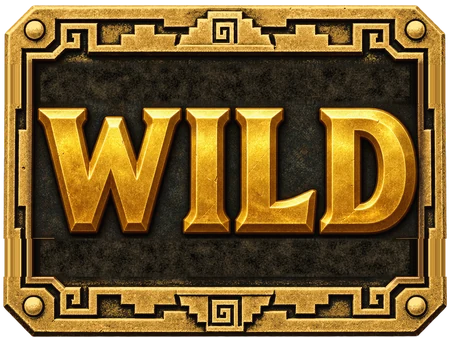
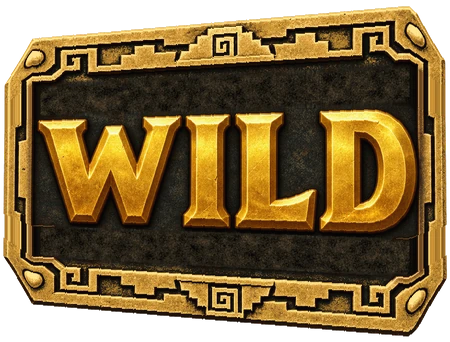
Centre gems in pockets and shape WILD plaque like a gem
Pocket centres sit 1.06 deg off the image axes, so gems are rotated by that
offset, set on radius 391 and reduced to 110 px. WILD plaque is warped into
the gem trapezoid and masked with the gem silhouette; the flipped variant for
the right wheel keeps the narrow side toward the centre.

diff --git a/assets/wheel-v2/game-published/index.html b/assets/wheel-v2/game-published/index.html
@@ -1,4 +1,4 @@
-<!doctype html><html lang="en"><head><meta charset="utf-8"/><link rel="icon" href="./favicon.png"/><meta name="viewport" content="width=device-width,initial-scale=1"/><meta name="description" content="Web site created using create-react-app"/><title>Double Wheel</title><script src="./replay.js"></script><script defer="defer" src="./static/js/main.d348ebcc.js"></script><link href="./static/css/main.be085d95.css" rel="stylesheet"><style>.background_video{display:none!important}.wheel_stonesCon canvas,.wheel_stonesCon2 canvas{opacity:0!important}.wheel-container{scale:1.058;translate:138px -1px}.wheel-container2{scale:1.058;translate:205px 1px}.con-amazonPrincess{translate:-50px 0}.arrow-container{margin-left:170px}.App{background:#0b140d url(./static/media/background.c09b372e03a655d69d97.webp) center/cover no-repeat!important}.con-amazonPrincess{width:850px!important;height:850px!important}.con-amazonPrincess>div{transform:scale(2.8333);transform-origin:0 0}.CrashVisualization,.CrashHistoryBar,.topTableCounter_container,.PlayerList,.App>section{opacity:0!important;pointer-events:none!important}</style><style>.stonesCon img{width:124px!important;margin:0!important;filter:drop-shadow(0 3px 4px rgba(0,0,0,.55))}.stonesCon img.wild{width:124px!important;margin:0!important}.stonesCon img.s1{left:811.8px;top:331.5px;transform:rotate(-18.0deg)}.stonesCon img.s2{left:831.0px;top:452.9px;transform:rotate(0.0deg)}.stonesCon img.s3{left:811.8px;top:574.3px;transform:rotate(18.0deg)}.stonesCon img.s4{left:755.9px;top:683.9px;transform:rotate(36.0deg)}.stonesCon img.s5{left:669.0px;top:770.8px;transform:rotate(54.0deg)}.stonesCon img.s6{left:559.4px;top:826.7px;transform:rotate(72.0deg)}.stonesCon img.s7{left:438.0px;top:845.9px;transform:rotate(90.0deg)}.stonesCon img.s8{left:316.6px;top:826.7px;transform:rotate(108.0deg)}.stonesCon img.s9{left:207.0px;top:770.8px;transform:rotate(126.0deg)}.stonesCon img.s10{left:120.1px;top:683.9px;transform:rotate(144.0deg)}.stonesCon img.s11{left:64.2px;top:574.3px;transform:rotate(162.0deg)}.stonesCon img.s12{left:45.0px;top:452.9px;transform:rotate(180.0deg)}.stonesCon img.s13{left:64.2px;top:331.5px;transform:rotate(198.0deg)}.stonesCon img.s14{left:120.1px;top:221.9px;transform:rotate(216.0deg)}.stonesCon img.s15{left:207.0px;top:135.0px;transform:rotate(234.0deg)}.stonesCon img.s16{left:316.6px;top:79.1px;transform:rotate(252.0deg)}.stonesCon img.s17{left:438.0px;top:59.9px;transform:rotate(270.0deg)}.stonesCon img.s18{left:559.4px;top:79.1px;transform:rotate(288.0deg)}.stonesCon img.s19{left:669.0px;top:135.0px;transform:rotate(306.0deg)}.stonesCon img.s20{left:755.9px;top:221.9px;transform:rotate(324.0deg)}</style><style>
+<!doctype html><html lang="en"><head><meta charset="utf-8"/><link rel="icon" href="./favicon.png"/><meta name="viewport" content="width=device-width,initial-scale=1"/><meta name="description" content="Web site created using create-react-app"/><title>Double Wheel</title><script src="./replay.js"></script><script defer="defer" src="./static/js/main.d348ebcc.js"></script><link href="./static/css/main.be085d95.css" rel="stylesheet"><style>.background_video{display:none!important}.wheel_stonesCon canvas,.wheel_stonesCon2 canvas{opacity:0!important}.wheel-container{scale:1.058;translate:138px -1px}.wheel-container2{scale:1.058;translate:205px 1px}.con-amazonPrincess{translate:-50px 0}.arrow-container{margin-left:170px}.App{background:#0b140d url(./static/media/background.c09b372e03a655d69d97.webp) center/cover no-repeat!important}.con-amazonPrincess{width:850px!important;height:850px!important}.con-amazonPrincess>div{transform:scale(2.8333);transform-origin:0 0}.CrashVisualization,.CrashHistoryBar,.topTableCounter_container,.PlayerList,.App>section{opacity:0!important;pointer-events:none!important}</style><style>.stonesCon img{width:110px!important;margin:0!important;filter:drop-shadow(0 3px 4px rgba(0,0,0,.55))}.stonesCon img.wild{width:110px!important;margin:0!important}.stonesCon img.s1{left:819.0px;top:344.3px;transform:rotate(-16.94deg)}.stonesCon img.s2{left:835.9px;top:465.4px;transform:rotate(1.06deg)}.stonesCon img.s3{left:814.6px;top:585.9px;transform:rotate(19.06deg)}.stonesCon img.s4{left:757.0px;top:693.8px;transform:rotate(37.06deg)}.stonesCon img.s5{left:668.9px;top:778.7px;transform:rotate(55.06deg)}.stonesCon img.s6{left:558.9px;top:832.2px;transform:rotate(73.06deg)}.stonesCon img.s7{left:437.8px;top:849.1px;transform:rotate(91.06deg)}.stonesCon img.s8{left:317.3px;top:827.8px;transform:rotate(109.06deg)}.stonesCon img.s9{left:209.4px;top:770.2px;transform:rotate(127.06deg)}.stonesCon img.s10{left:124.5px;top:682.1px;transform:rotate(145.06deg)}.stonesCon img.s11{left:71.0px;top:572.1px;transform:rotate(163.06deg)}.stonesCon img.s12{left:54.1px;top:451.0px;transform:rotate(181.06deg)}.stonesCon img.s13{left:75.4px;top:330.5px;transform:rotate(199.06deg)}.stonesCon img.s14{left:133.0px;top:222.6px;transform:rotate(217.06deg)}.stonesCon img.s15{left:221.1px;top:137.7px;transform:rotate(235.06deg)}.stonesCon img.s16{left:331.1px;top:84.2px;transform:rotate(253.06deg)}.stonesCon img.s17{left:452.2px;top:67.3px;transform:rotate(271.06deg)}.stonesCon img.s18{left:572.7px;top:88.6px;transform:rotate(289.06deg)}.stonesCon img.s19{left:680.6px;top:146.2px;transform:rotate(307.06deg)}.stonesCon img.s20{left:765.5px;top:234.3px;transform:rotate(325.06deg)}</style><style>
 @font-face{font-family:"AlfaSC";src:url(./static/media/alfa-x.woff) format("woff");font-display:block}
 /* multiplier: carved gold numerals, optically centred on the medallion (wheel centre is at y=572 inside the container) */
 .wheel-container #final-value,.wheel-container2 #final-value,.wheel-container #final-valueSecond,.wheel-container2 #final-valueSecond,.wheel-container .final-value,.wheel-container2 .final-value{font-family:"AlfaSC",serif!important;font-size:200px!important;line-height:1!important;height:auto!important;letter-spacing:0!important;top:calc(572px - 0.461em)!important;filter:drop-shadow(0 4px 0 #4a2704) drop-shadow(0 9px 10px rgba(0,0,0,.55))}
